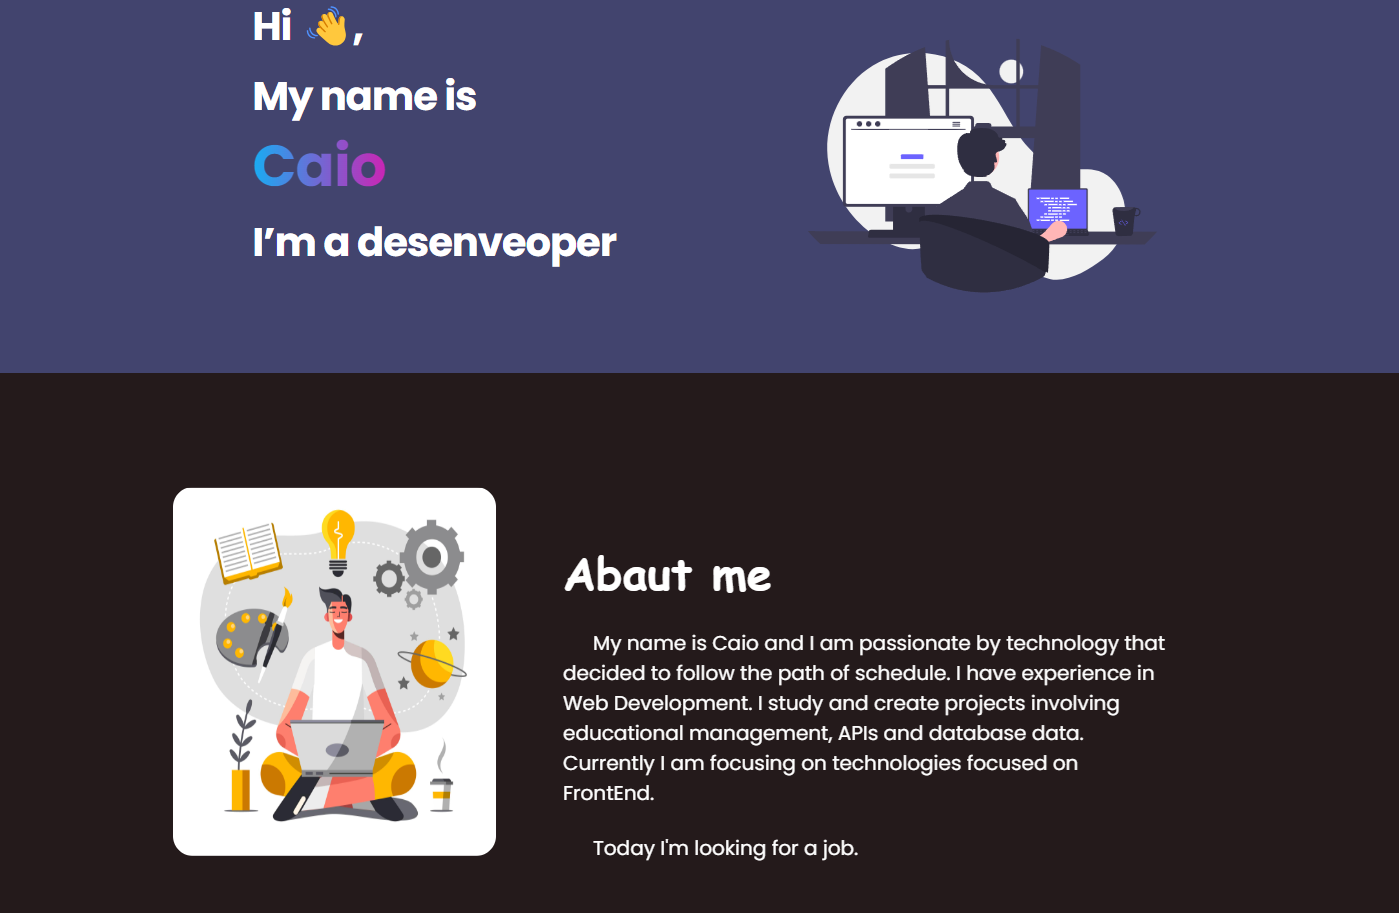
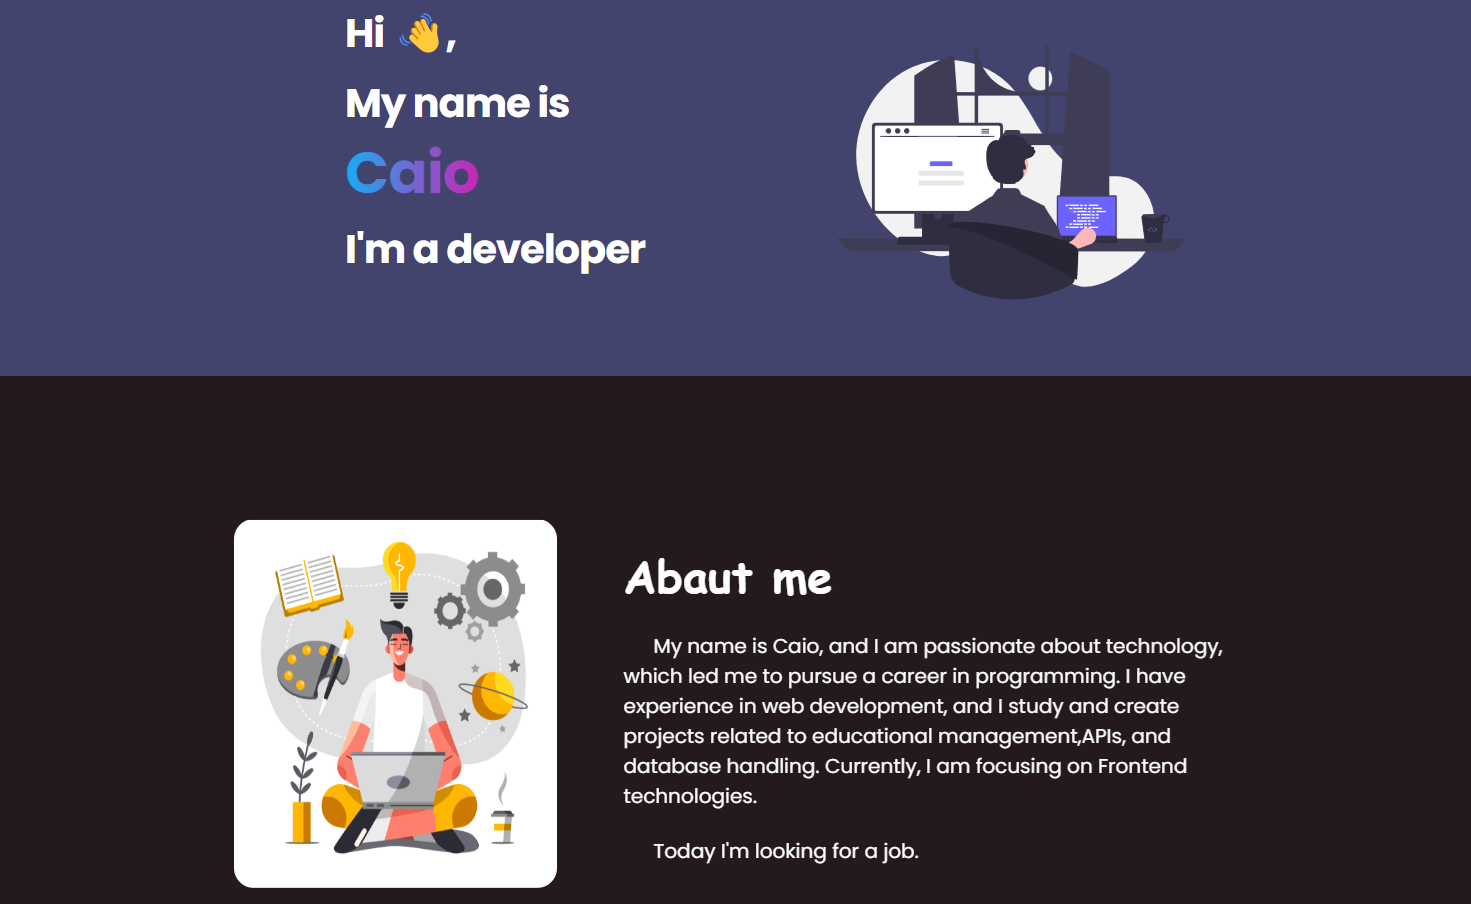
up

diff --git a/index.html b/index.html
@@ -61,10 +61,9 @@
     <h1 class="text">Hi 👋, <br>
       My name is <br>
       <span class="bold-text">Caio</span><br>
-      I’m a desenveoper
+      I'm a developer
     </h1>
-  </div>
-
+  </div>  
   <div>
     <img class="user-images"  id="flying-img" src="/assets/img/programming.svg" alt="A man programming image">
   </div>
@@ -86,13 +85,10 @@
                 <h2>Abaut me</h2>
                 <br />
                 <p>
-                    My name is Caio and I am passionate
-                    by technology that decided to follow the path of
-                    schedule. I have experience in
-                    Web Development. I study and create projects
-                    involving educational management, APIs and database
-                    data. Currently I am focusing on technologies
-                    focused on FrontEnd.
+                  My name is Caio, and I am passionate about technology, which led me 
+                  to pursue a career in programming. I have experience in web development,
+                   and I study and create projects related to educational management,APIs, 
+                   and database handling. Currently, I am focusing on Frontend technologies.
                 </p>
                 <br />
                 <p>
@@ -184,9 +180,9 @@
   <div class="under">
    
  <div>        
-   <h4 class="card-title">Project Tile</h4>
-   <p class="card-text">This is sample project description random things are here in description This is sample
-     project</p>
+   <h4 class="card-title">Project Title</h4>
+   <p class="card-text">This project aims to exemplify various aspects of a comprehensive project
+     description.</p>
      <span class="card-sub"><strong>Tech stack : </strong>HTML , JavaScript, SASS, React</span>
  </div>
 
@@ -222,9 +218,9 @@
   <div class="under">
    
  <div>        
-   <h4 class="card-title">Project Tile</h4>
-   <p class="card-text">This is sample project description random things are here in description This is sample
-     project</p>
+   <h4 class="card-title">Project Title</h4>
+   <p class="card-text">This project aims to exemplify various aspects of a comprehensive project
+    description.</p>
      <span class="card-sub"><strong>Tech stack : </strong>HTML , JavaScript, SASS, React</span>
  </div>
 
@@ -260,9 +256,9 @@
   <div class="under">
    
  <div>        
-   <h4 class="card-title">Project Tile</h4>
-   <p class="card-text">This is sample project description random things are here in description This is sample
-     project</p>
+   <h4 class="card-title">Project Title</h4>
+   <p class="card-text">This project aims to exemplify various aspects of a comprehensive project
+    description.</p>
      <span class="card-sub"><strong>Tech stack : </strong>HTML , JavaScript, SASS, React</span>
  </div>
 
@@ -296,9 +292,9 @@
   <div class="under">
    
  <div>        
-   <h4 class="card-title">Project Tile</h4>
-   <p class="card-text">This is sample project description random things are here in description This is sample
-     project</p>
+   <h4 class="card-title">Project Title</h4>
+   <p class="card-text">This project aims to exemplify various aspects of a comprehensive project
+    description.</p>
      <span class="card-sub"><strong>Tech stack : </strong>HTML , JavaScript, SASS, React</span>
  </div>
 
@@ -333,9 +329,9 @@
   <div class="under">
    
  <div>        
-   <h4 class="card-title">Project Tile</h4>
-   <p class="card-text">This is sample project description random things are here in description This is sample
-     project</p>
+   <h4 class="card-title">Project Title</h4>
+   <p class="card-text">This project aims to exemplify various aspects of a comprehensive project
+    description.</p>
      <span class="card-sub"><strong>Tech stack : </strong>HTML , JavaScript, SASS, React</span>
  </div>
 
